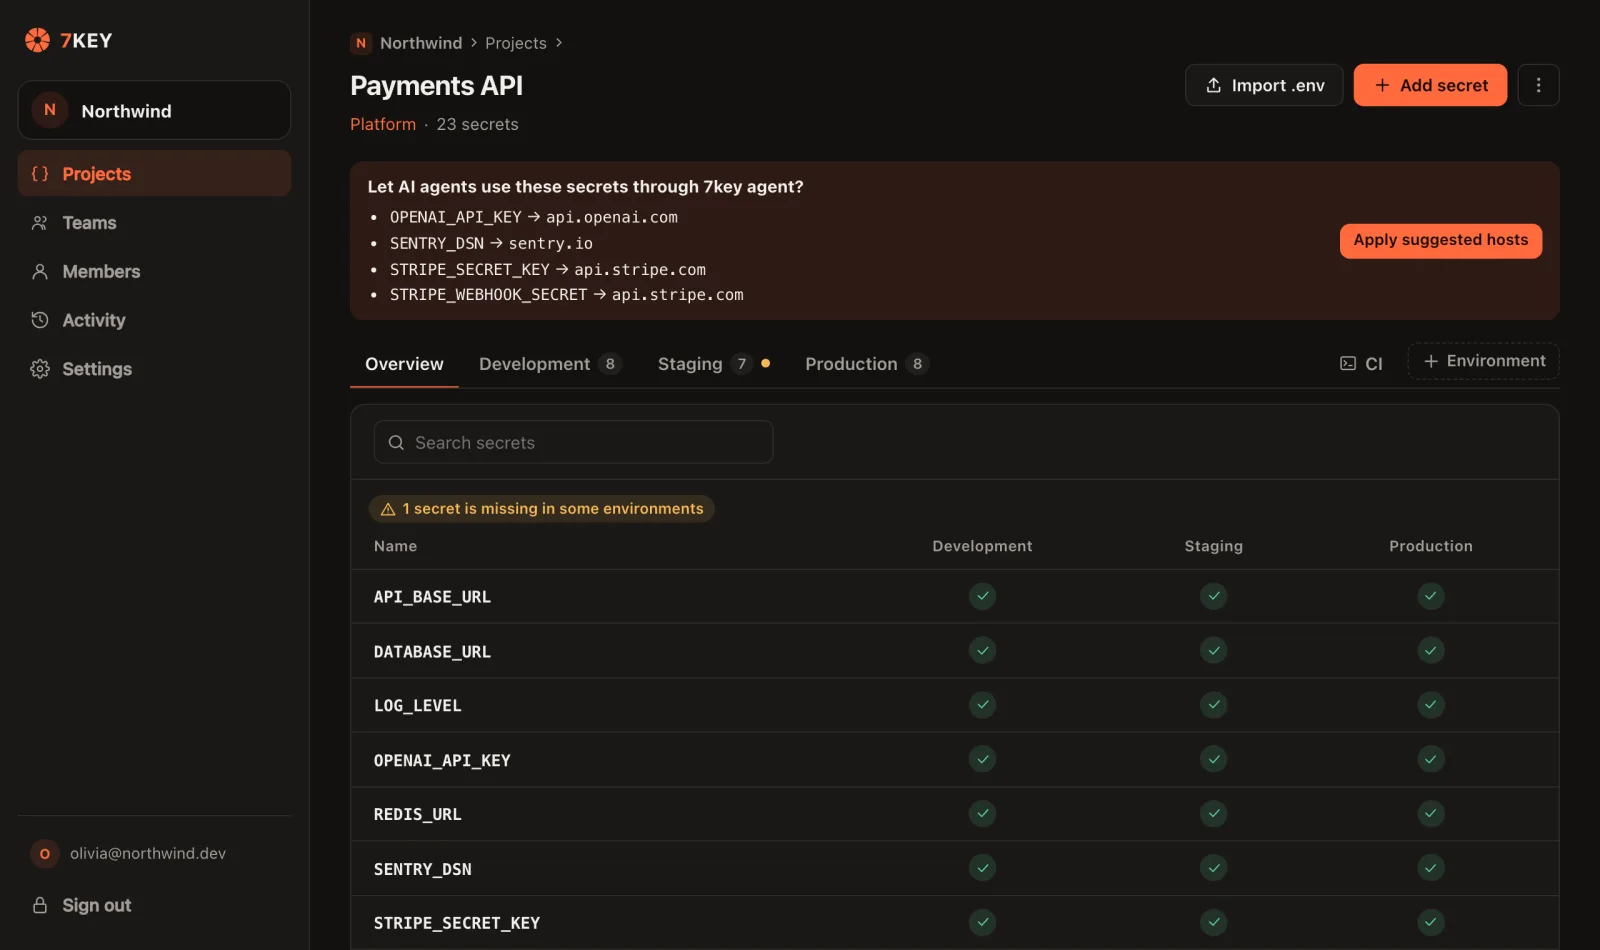
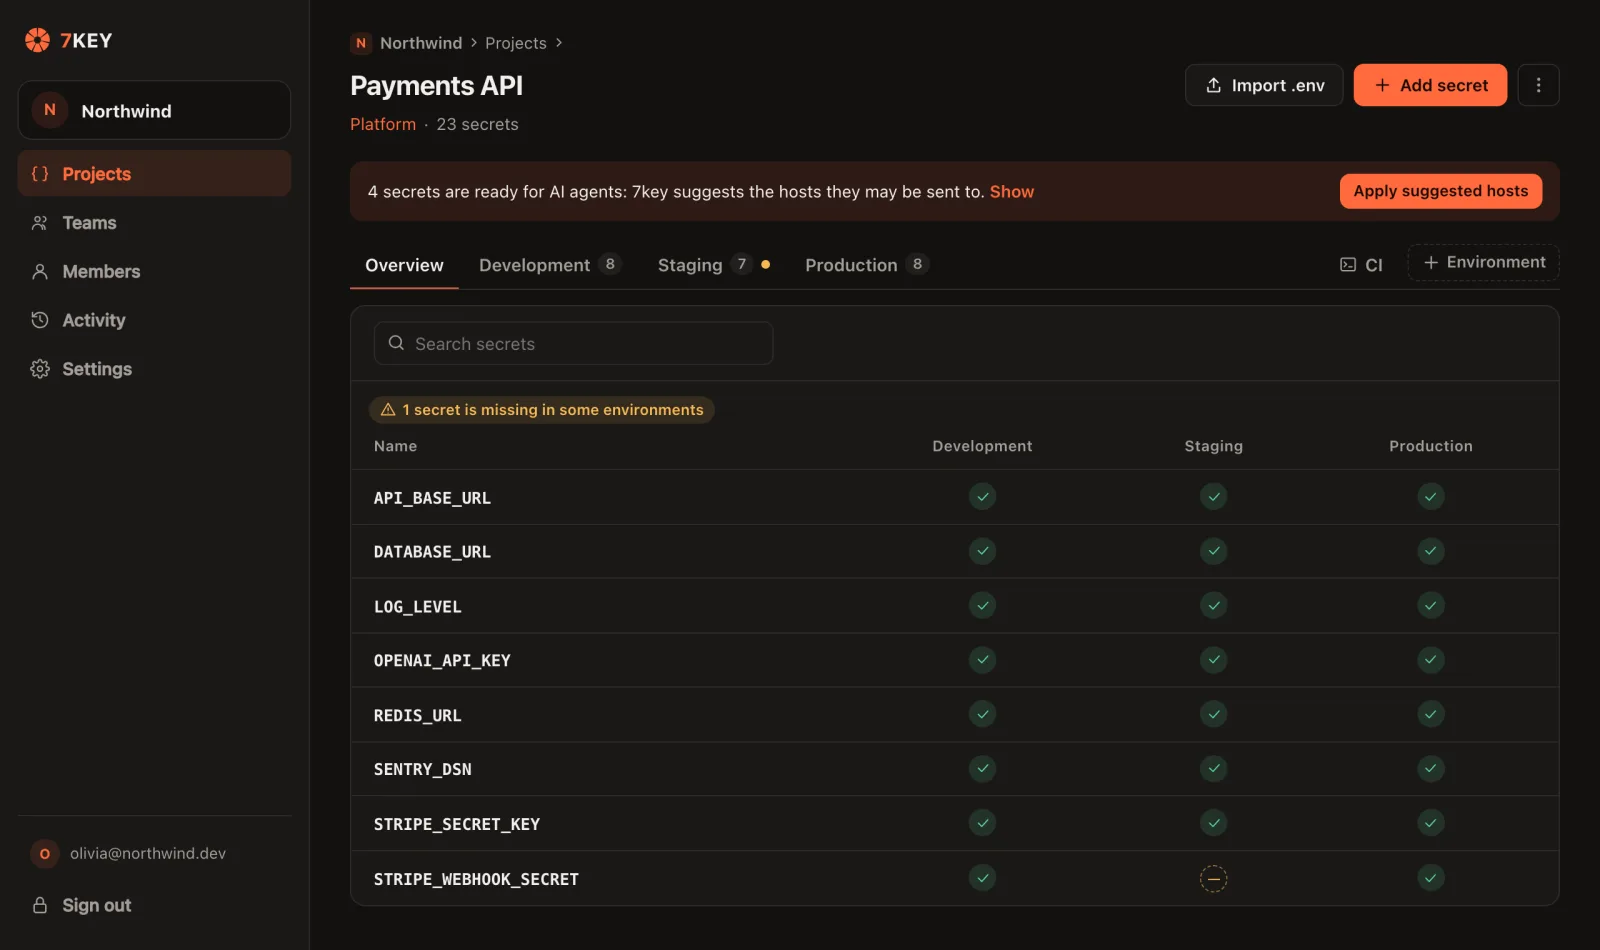
feat(console): fold the AI agent host suggestion into one line with the list behind Show

diff --git a/extension/console/pages/ProjectPage.tsx b/extension/console/pages/ProjectPage.tsx
@@ -209,8 +209,11 @@ function ProjectView({
 
       {suggestedNames.length > 0 && editable && (
         <div className="alert suggest action">
-          <div>
-            <strong>{t("console.agent_hosts_suggest_title")}</strong>
+          <details>
+            <summary>
+              {t("console.agent_hosts_suggest_title", { count: suggestedNames.length })}{" "}
+              <span className="suggest-toggle">{t("console.agent_hosts_suggest_show")}</span>
+            </summary>
             <ul>
               {suggestedNames.map(({ secret, hosts }) => (
                 <li key={secret.name}>
@@ -218,7 +221,7 @@ function ProjectView({
                 </li>
               ))}
             </ul>
-          </div>
+          </details>
           <button type="button" className="btn primary sm" onClick={applySuggestions}>
             {t("console.agent_hosts_apply")}
           </button>

diff --git a/src/i18n/vi.ts b/src/i18n/vi.ts
@@ -488,7 +488,9 @@ export const vi: Catalogue = {
   "console.agent_hosts_hint":
     "7key agent chỉ gửi secret này tới các host dưới đây; bản thân agent chỉ thấy placeholder. Mỗi dòng một host, dùng *.example.com cho subdomain.",
   "console.agent_hosts_add": "Thêm host",
-  "console.agent_hosts_suggest_title": "Cho AI agent dùng các secret này qua 7key agent?",
+  "console.agent_hosts_suggest_title":
+    "{count} secret có thể dùng cho AI agent: 7key gợi ý các host được phép gửi tới.",
+  "console.agent_hosts_suggest_show": "Xem",
   "console.agent_hosts_apply": "Áp dụng host gợi ý",
   "console.agent_hosts_applied": "Đã đặt host cho agent",
   "console.agent_hosts_remove": "Gỡ {host}",

diff --git a/src/i18n/en.ts b/src/i18n/en.ts
@@ -491,7 +491,9 @@ export const en = {
   "console.agent_hosts_hint":
     "7key agent sends this secret only to these hosts; the agent itself sees a placeholder. One per line, *.example.com for subdomains.",
   "console.agent_hosts_add": "Add host",
-  "console.agent_hosts_suggest_title": "Let AI agents use these secrets through 7key agent?",
+  "console.agent_hosts_suggest_title":
+    "{count, plural, one {# secret is} other {# secrets are}} ready for AI agents: 7key suggests the hosts they may be sent to.",
+  "console.agent_hosts_suggest_show": "Show",
   "console.agent_hosts_apply": "Apply suggested hosts",
   "console.agent_hosts_applied": "Agent hosts set",
   "console.agent_hosts_remove": "Remove {host}",

diff --git a/extension/console/console.css b/extension/console/console.css
@@ -1707,8 +1707,23 @@ tr.pending-row {
 .alert.suggest {
   background: var(--accent-soft);
 }
+.alert.suggest summary {
+  list-style: none;
+  cursor: pointer;
+}
+.alert.suggest summary::-webkit-details-marker {
+  display: none;
+}
+.alert.suggest .suggest-toggle {
+  color: var(--accent);
+  font-weight: 600;
+  white-space: nowrap;
+}
+.alert.suggest details[open] .suggest-toggle {
+  display: none;
+}
 .alert.suggest ul {
-  margin: 4px 0 0;
+  margin: 6px 0 0;
   padding-left: 18px;
 }
 .alert.suggest code {
